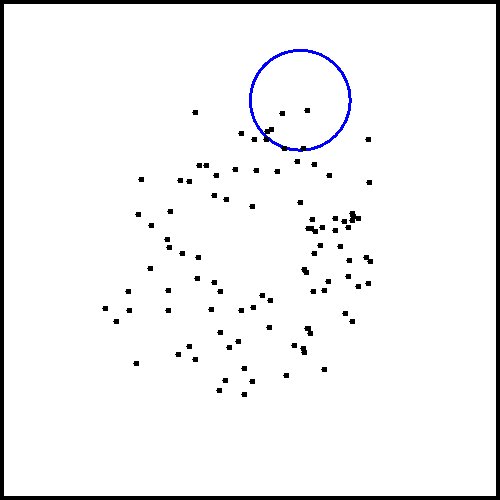
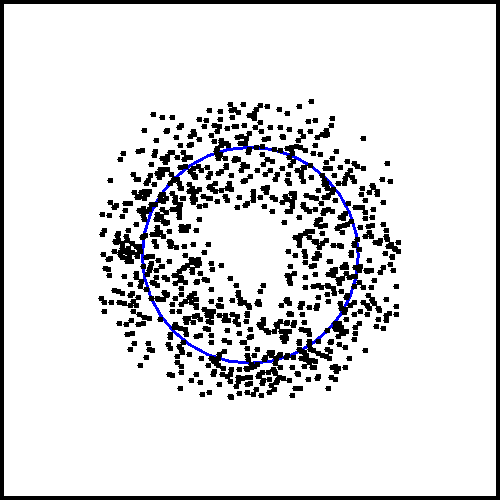
Exo 2 finit

diff --git a/TP/src/main/java/com/example/tp2/Main.java b/TP/src/main/java/com/example/tp2/Main.java
@@ -11,13 +11,30 @@ public class Main {
         ProblemeRF pb = new ProblemeRF(100, generateur);
 
         // on creer un Cercle
-        Cercle c = new Cercle(300,100,50);
-
-        // on creer l'image et on ajoute les éléments
+        
+        double alpha = 0.1;
+        double d = 0.1;
+        Double[] tab = {150.0,150.0,10.0};
+        Cercle c = new Cercle(tab);
         SauveImage image = new SauveImage(500,500);
         image.dessinerCercle(c);
         image.dessinerPoints(pb.points);
-        image.sauverImage("test_image.png");
+        image.sauverImage("test_imageDebut.png");
+        
+
+        for(int i=0;i<100000;i++){
+            tab[0] = tab[0] - alpha * (pb.evaluer(new Cercle(new Double[]{tab[0]+d,tab[1],tab[2]}))-pb.evaluer(new Cercle(new Double[]{tab[0]-d,tab[1],tab[2]})))/2*d;
+            tab[1] = tab[1] - alpha * (pb.evaluer(new Cercle(new Double[]{tab[0],tab[1]+d,tab[2]}))-pb.evaluer(new Cercle(new Double[]{tab[0],tab[1]-d,tab[2]})))/2*d;
+            tab[2] = tab[2] - alpha * (pb.evaluer(new Cercle(new Double[]{tab[0],tab[1],tab[2]+d}))-pb.evaluer(new Cercle(new Double[]{tab[0],tab[1],tab[2]-d})))/2*d;
+        }
+        c = new Cercle(tab);
+        System.out.println("x="+c.getX() +"  ----- y="+ c.getY() +"  ----- centre ="+ c.getRayon());
+
+        // on creer l'image et on ajoute les éléments
+        image = new SauveImage(500,500);
+        image.dessinerCercle(c);
+        image.dessinerPoints(pb.points);
+        image.sauverImage("test_imageFinal.png");
 
 
 

diff --git a/TP/src/main/java/com/example/tp2/Cercle.java b/TP/src/main/java/com/example/tp2/Cercle.java
@@ -30,6 +30,11 @@ public class Cercle {
         this.rayon = r;
     }
 
+    public Cercle(Double[] tab) {
+        this.centre = new Point2D(tab[0], tab[1]);
+        this.rayon = tab[2];
+    }
+
 
     public double getX() {
         return this.centre.getX();
@@ -37,6 +42,10 @@ public class Cercle {
 
     public double getY() {
         return this.centre.getY();
+    }
+
+    public Point2D getCentre() {
+        return centre;
     }
 
     public double getRayon() {

diff --git a/TP/src/main/java/com/example/tp2/ProblemeRF.java b/TP/src/main/java/com/example/tp2/ProblemeRF.java
@@ -48,7 +48,11 @@ public class ProblemeRF {
      * @return l'erreur moyenne commise
      */
     public double evaluer(Cercle c) {
-
+        double resultat = 0;
+        for(int i=0;i<this.points.size();i++){
+            resultat += Math.abs(this.points.get(i).distance(c.getCentre())-c.getRayon());
+        }
+        return resultat;
     }
 
 

diff --git a/TP/src/main/java/com/example/tp1/Solution.java b/TP/src/main/java/com/example/tp1/Solution.java
@@ -1,4 +1,4 @@
-package com.example.tp;
+package com.example.tp1;
 
 public interface Solution {
 
